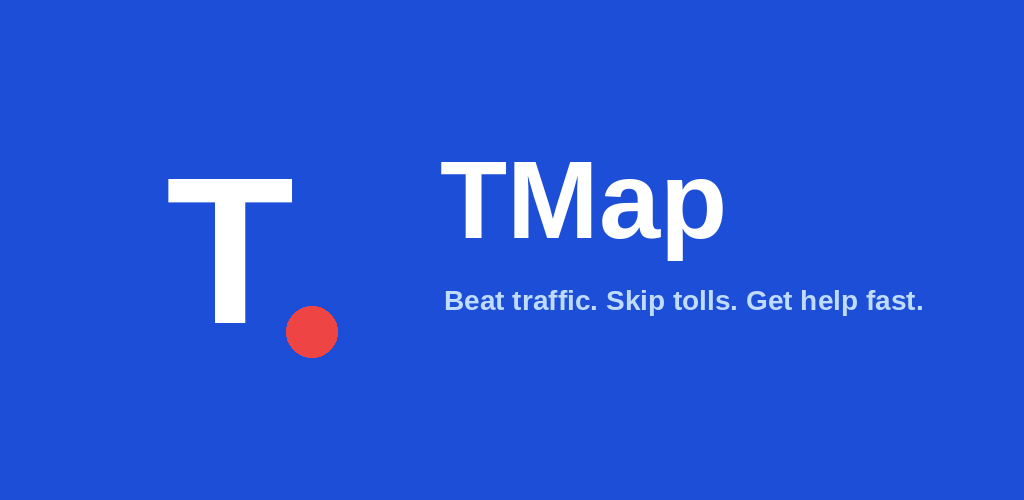
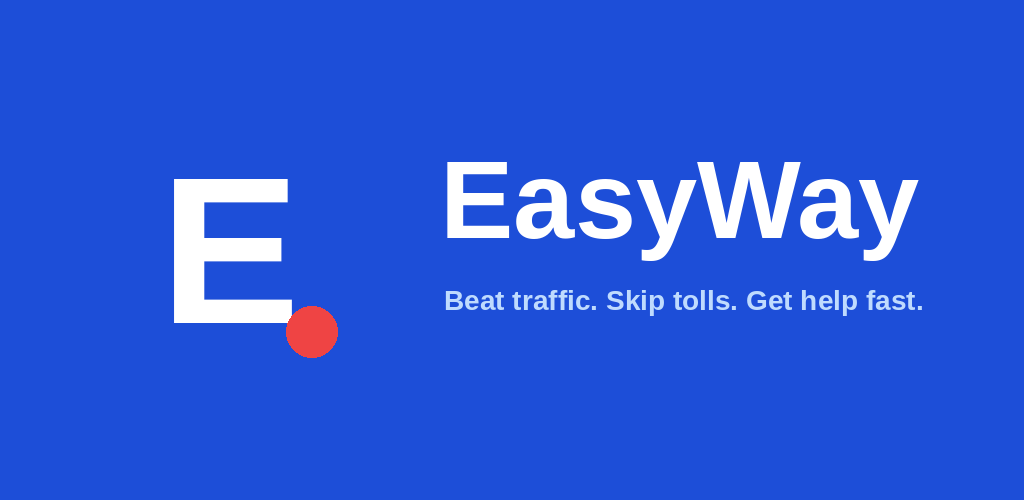
Rename the app from TMap to EasyWay
Rename across the website, PWA manifest, privacy policy, Play Store
listing and Android app (app id com.xeenox.easyway, not yet published so
the id can still change), and regenerate icons with the E mark.

Claude-Session: https://claude.ai/code/session_01BbZGhenm17UVSnCTurGocy

Changed region(s): [[0.4062, 0.3, 0.9062, 0.54], [0.1562, 0.36, 0.3125, 0.66], [0.2812, 0.36, 0.3125, 0.39]]

diff --git a/public/privacy.html b/public/privacy.html
@@ -3,7 +3,7 @@
   <head>
     <meta charset="UTF-8" />
     <meta name="viewport" content="width=device-width, initial-scale=1.0" />
-    <title>TMap Privacy Policy</title>
+    <title>EasyWay Privacy Policy</title>
     <style>
       :root { --bg: #ffffff; --fg: #0f172a; --muted: #475569; }
       @media (prefers-color-scheme: dark) { :root { --bg: #0f172a; --fg: #e2e8f0; --muted: #94a3b8; } }
@@ -15,21 +15,21 @@
   </head>
   <body>
     <main>
-      <h1>TMap Privacy Policy</h1>
+      <h1>EasyWay Privacy Policy</h1>
       <p class="muted">Last updated: 25 October 2026</p>
 
-      <p>TMap is a free navigation app made by Xeenox AI. It has no accounts, no ads and no analytics or tracking.</p>
+      <p>EasyWay is a free navigation app made by Xeenox AI. It has no accounts, no ads and no analytics or tracking.</p>
 
       <h2>Location</h2>
-      <p>With your permission, TMap uses your phone's location to start routes from where you are, show traffic hotspots
-        around you and find nearby workshops, fuel and EV charging when your vehicle breaks down. TMap does not store
+      <p>With your permission, EasyWay uses your phone's location to start routes from where you are, show traffic hotspots
+        around you and find nearby workshops, fuel and EV charging when your vehicle breaks down. EasyWay does not store
         your location on any server and does not keep a location history.</p>
 
       <h2>Map and route services</h2>
-      <p>To draw the map and work out routes, TMap sends the places you search for and the start and end points of a
+      <p>To draw the map and work out routes, EasyWay sends the places you search for and the start and end points of a
         route to free OpenStreetMap services: OpenStreetMap map tiles, Nominatim and Photon (place search), Valhalla
         and OSRM (routing) and Overpass (nearby places and traffic-causing features). These services receive the request
-        and your IP address, like any website you visit, and are governed by their own privacy policies. TMap does not
+        and your IP address, like any website you visit, and are governed by their own privacy policies. EasyWay does not
         send them your name or any account details.</p>
 
       <h2>Data kept on your phone</h2>
@@ -45,7 +45,7 @@
         privacy policy applies.</p>
 
       <h2>Children</h2>
-      <p>TMap is not directed at children under 13 and does not knowingly collect information from them.</p>
+      <p>EasyWay is not directed at children under 13 and does not knowingly collect information from them.</p>
 
       <h2>Contact</h2>
       <p>Questions about this policy: open an issue at <a href="https://github.com/xeenoxin-ai/xeenox-ai-digital-marketing/issues">github.com/xeenoxin-ai/xeenox-ai-digital-marketing/issues</a>.</p>

diff --git a/index.html b/index.html
@@ -7,7 +7,7 @@
     <link rel="manifest" href="manifest.webmanifest" />
     <link rel="icon" href="icon-192.png" />
     <link rel="apple-touch-icon" href="icon-192.png" />
-    <title>TMap</title>
+    <title>EasyWay</title>
   </head>
   <body>
     <div id="map"></div>
@@ -15,8 +15,8 @@
     <!-- Search / route planner -->
     <section class="panel top-panel" id="planner">
       <div class="brand">
-        <span class="logo">T</span>
-        <strong>TMap</strong>
+        <span class="logo">E</span>
+        <strong>EasyWay</strong>
         <button class="btn small primary" id="installBtn" hidden>Install app</button>
         <button class="icon-btn" id="settingsBtn" title="Settings" aria-label="Settings">⚙</button>
       </div>

diff --git a/src/main.js b/src/main.js
@@ -573,7 +573,7 @@ $('installBtn').addEventListener('click', async () => {
   installPrompt = null;
   $('installBtn').hidden = true;
 });
-addEventListener('appinstalled', () => toast('TMap installed. Open it from your home screen.'));
+addEventListener('appinstalled', () => toast('EasyWay installed. Open it from your home screen.'));
 
 updateAiMode();
 locate();

diff --git a/public/sw.js b/public/sw.js
@@ -2,7 +2,7 @@
 // Only the app's own files are cached; map, routing and search data always
 // come live from the network.
 
-const CACHE = 'tmap-v1';
+const CACHE = 'easyway-v1';
 
 self.addEventListener('install', () => self.skipWaiting());
 

diff --git a/src/storage.js b/src/storage.js
@@ -1,7 +1,7 @@
 // Browser-local persistence. Every access is guarded because storage can be
 // unavailable (private mode, blocked site data).
 
-const KEY = 'tmap';
+const KEY = 'easyway';
 
 function readAll() {
   try {

diff --git a/public/404.html b/public/404.html
@@ -1,5 +1,5 @@
 <!doctype html>
 <meta charset="utf-8" />
-<title>TMap</title>
+<title>EasyWay</title>
 <meta http-equiv="refresh" content="0; url=./" />
-<a href="./">Open TMap</a>
+<a href="./">Open EasyWay</a>

diff --git a/scripts/make-icons.py b/scripts/make-icons.py
@@ -1,4 +1,4 @@
-"""Generate every TMap icon from one design: web/PWA icons, Android launcher
+"""Generate every EasyWay icon from one design: web/PWA icons, Android launcher
 and splash images, and the Play Store icon and feature graphic.
 
 Run from the repo root: python3 scripts/make-icons.py
@@ -15,9 +15,9 @@ RES = 'android/app/src/main/res'
 
 
 def mark(img, cx, cy, size):
-    """Draw the TMap mark (white T with a red location dot) centred at cx, cy."""
+    """Draw the EasyWay mark (white E with a red location dot) centred at cx, cy."""
     d = ImageDraw.Draw(img)
-    d.text((cx, cy), 'T', font=ImageFont.truetype(BOLD, int(size * 0.62)), fill='white', anchor='mm')
+    d.text((cx, cy), 'E', font=ImageFont.truetype(BOLD, int(size * 0.62)), fill='white', anchor='mm')
     r = size * 0.075
     x, y = cx + size * 0.24, cy + size * 0.24
     d.ellipse([x - r, y - r, x + r, y + r], fill=RED)
@@ -73,7 +73,7 @@ square(512).convert('RGB').save('store/play-icon-512.png')
 fg = Image.new('RGB', (1024, 500), BLUE)
 mark(fg, 230, 250, 340)
 d = ImageDraw.Draw(fg)
-d.text((440, 200), 'TMap', font=ImageFont.truetype(BOLD, 110), fill='white', anchor='lm')
+d.text((440, 200), 'EasyWay', font=ImageFont.truetype(BOLD, 110), fill='white', anchor='lm')
 d.text((444, 300), 'Beat traffic. Skip tolls. Get help fast.', font=ImageFont.truetype(BOLD, 28),
        fill='#bfdbfe', anchor='lm')
 fg.save('store/feature-graphic-1024x500.png')

diff --git a/android/app/src/main/java/com/xeenox/easyway/MainActivity.java b/android/app/src/main/java/com/xeenox/easyway/MainActivity.java
@@ -1,4 +1,4 @@
-package com.xeenox.tmap;
+package com.xeenox.easyway;
 
 import com.getcapacitor.BridgeActivity;
 

diff --git a/store/PLAY_STORE.md b/store/PLAY_STORE.md
@@ -1,21 +1,21 @@
-# TMap: Google Play listing and release steps
+# EasyWay: Google Play listing and release steps
 
 ## Store listing (copy and paste)
 
-**App name:** TMap
+**App name:** EasyWay
 
 **Short description (max 80 characters):**
 Beat traffic, skip tolls and find a mechanic fast. Free, no ads, no sign-up.
 
 **Full description:**
 
-TMap finds the easiest way through local roads, so you don't wait in traffic.
+EasyWay finds the easiest way through local roads, so you don't wait in traffic.
 
 🚦 TRAFFIC HOTSPOTS
 See where queues form: signals, railway gates, bus stands, markets and schools, weighted by time of day. Report a jam with one tap and every route avoids it for the next hour.
 
 🛣 EASIEST LOCAL ROUTE
-TMap compares the main road with local-road shortcuts and picks the one that is fastest once traffic is counted, not just the shortest.
+EasyWay compares the main road with local-road shortcuts and picks the one that is fastest once traffic is counted, not just the shortest.
 
 💸 AVOID TOLLS
 Turn on Avoid tolls to get only toll-free roads. Every route is marked Toll or No toll.
@@ -55,7 +55,7 @@ No ads. No sign-up. No subscriptions. Built on OpenStreetMap open data.
 ## Release steps
 
 1. Create a Google Play developer account at https://play.google.com/console (Google charges a one-time US$25 fee and verifies your identity).
-2. **Create app** → name **TMap**, default language English (India), App, Free.
+2. **Create app** → name **EasyWay**, default language English (India), App, Free.
 3. Fill in **Store listing**, **Privacy policy**, **App content** and **Data safety** with the answers above.
 4. **Testing → Closed testing**: new personal developer accounts must run a closed test with at least 12 testers for 14 days before production access. Add testers' Gmail addresses.
 5. **Create release** → upload `app-release.aab` → **Use Google-generated app signing key** (Play App Signing).
@@ -63,7 +63,7 @@ No ads. No sign-up. No subscriptions. Built on OpenStreetMap open data.
 
 ## Upload key
 
-The `.aab` is signed with your private upload key (`tmap-upload-key.jks`). Keep that file and its password backed up somewhere safe and never put them in GitHub. Every future update must be signed with the same key. If you ever lose it, Google can reset the upload key through Play Console support.
+The `.aab` is signed with your private upload key (`easyway-upload-key.jks`). Keep that file and its password backed up somewhere safe and never put them in GitHub. Every future update must be signed with the same key. If you ever lose it, Google can reset the upload key through Play Console support.
 
 ## Updating the app later
 

diff --git a/README.md b/README.md
@@ -1,7 +1,7 @@
 # xeenox-ai-digital-marketing
 First Fully AI-Powered Digital Marketing Agency in Palakkad
 
-## TMap (v0.1)
+## EasyWay (v0.1)
 
 A Google-Maps-style web app focused on the parts that matter on Indian roads:
 
@@ -39,12 +39,12 @@ are against their Terms of Service and break without notice.
 1. Open the app link in Chrome (Android) or Safari (iPhone).
 2. Android: tap **Install app** at the top (or menu ⋮ → *Install app*).
    iPhone: tap Share → *Add to Home Screen*.
-3. Open **TMap** from the home screen like any other app.
+3. Open **EasyWay** from the home screen like any other app.
 
 ### Android app (Google Play)
 
 The `android/` folder is a Capacitor wrapper around the same web app (app id
-`com.xeenox.tmap`). Store listing text, graphics and release steps are in
+`com.xeenox.easyway`). Store listing text, graphics and release steps are in
 [`store/PLAY_STORE.md`](store/PLAY_STORE.md). Icons are generated by
 `python3 scripts/make-icons.py`.
 
